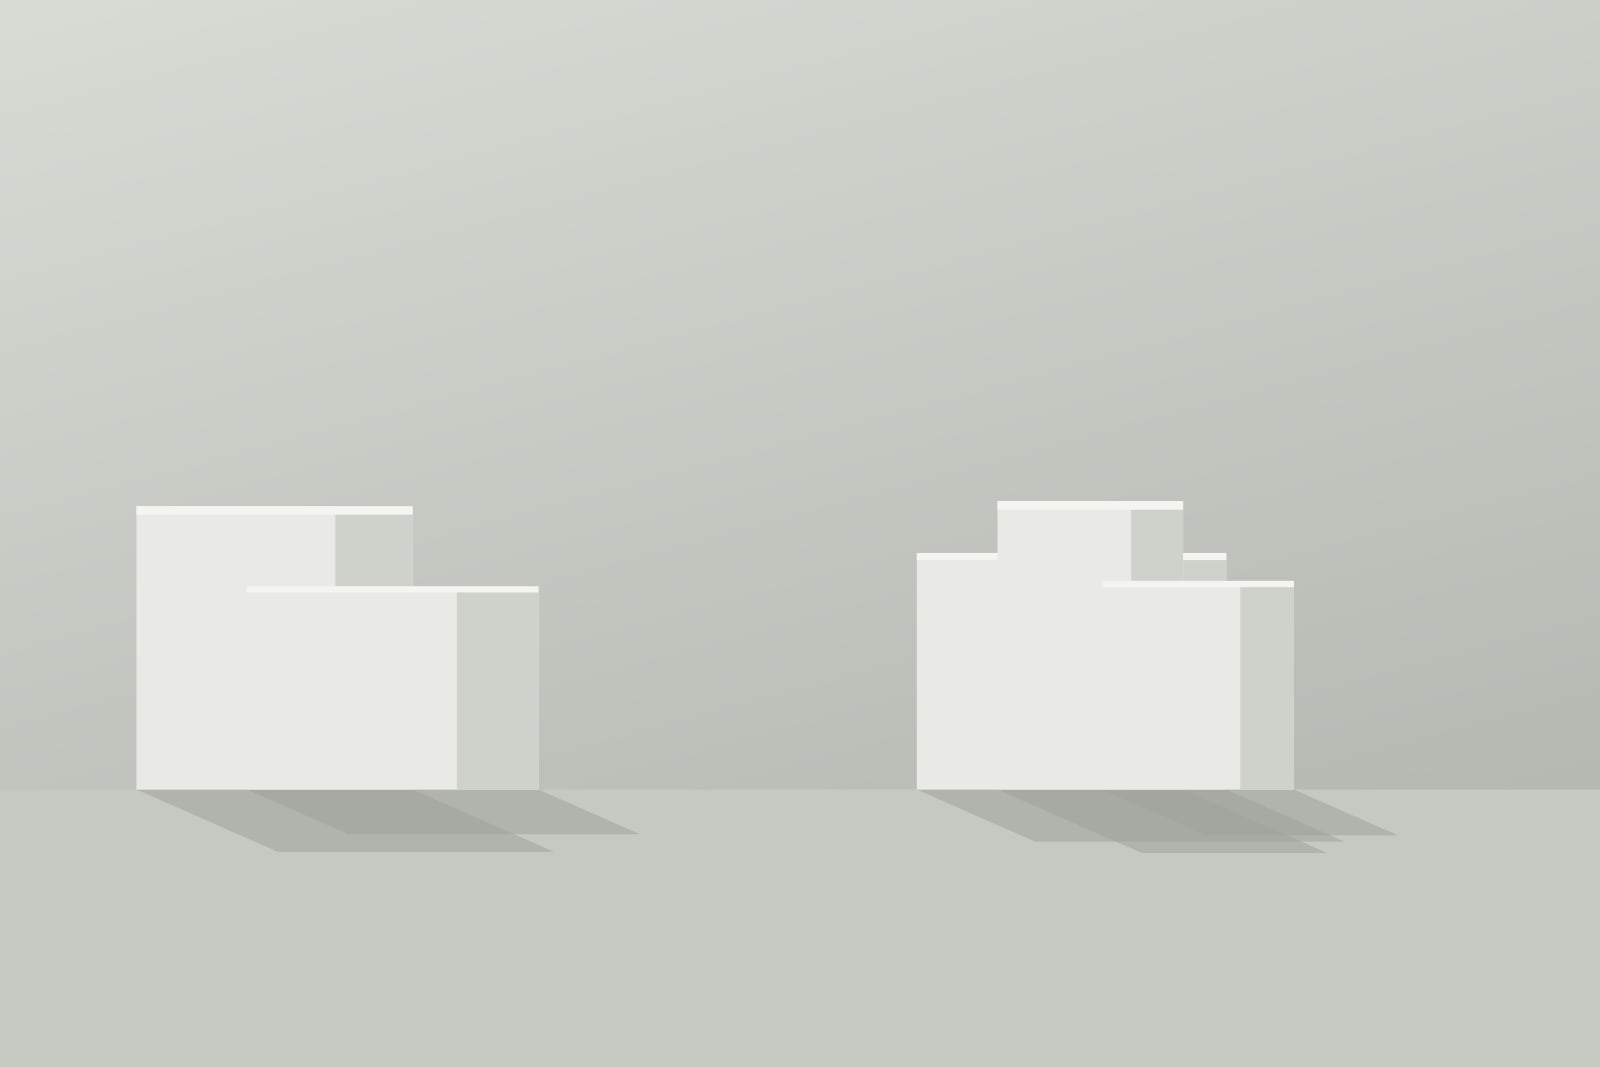
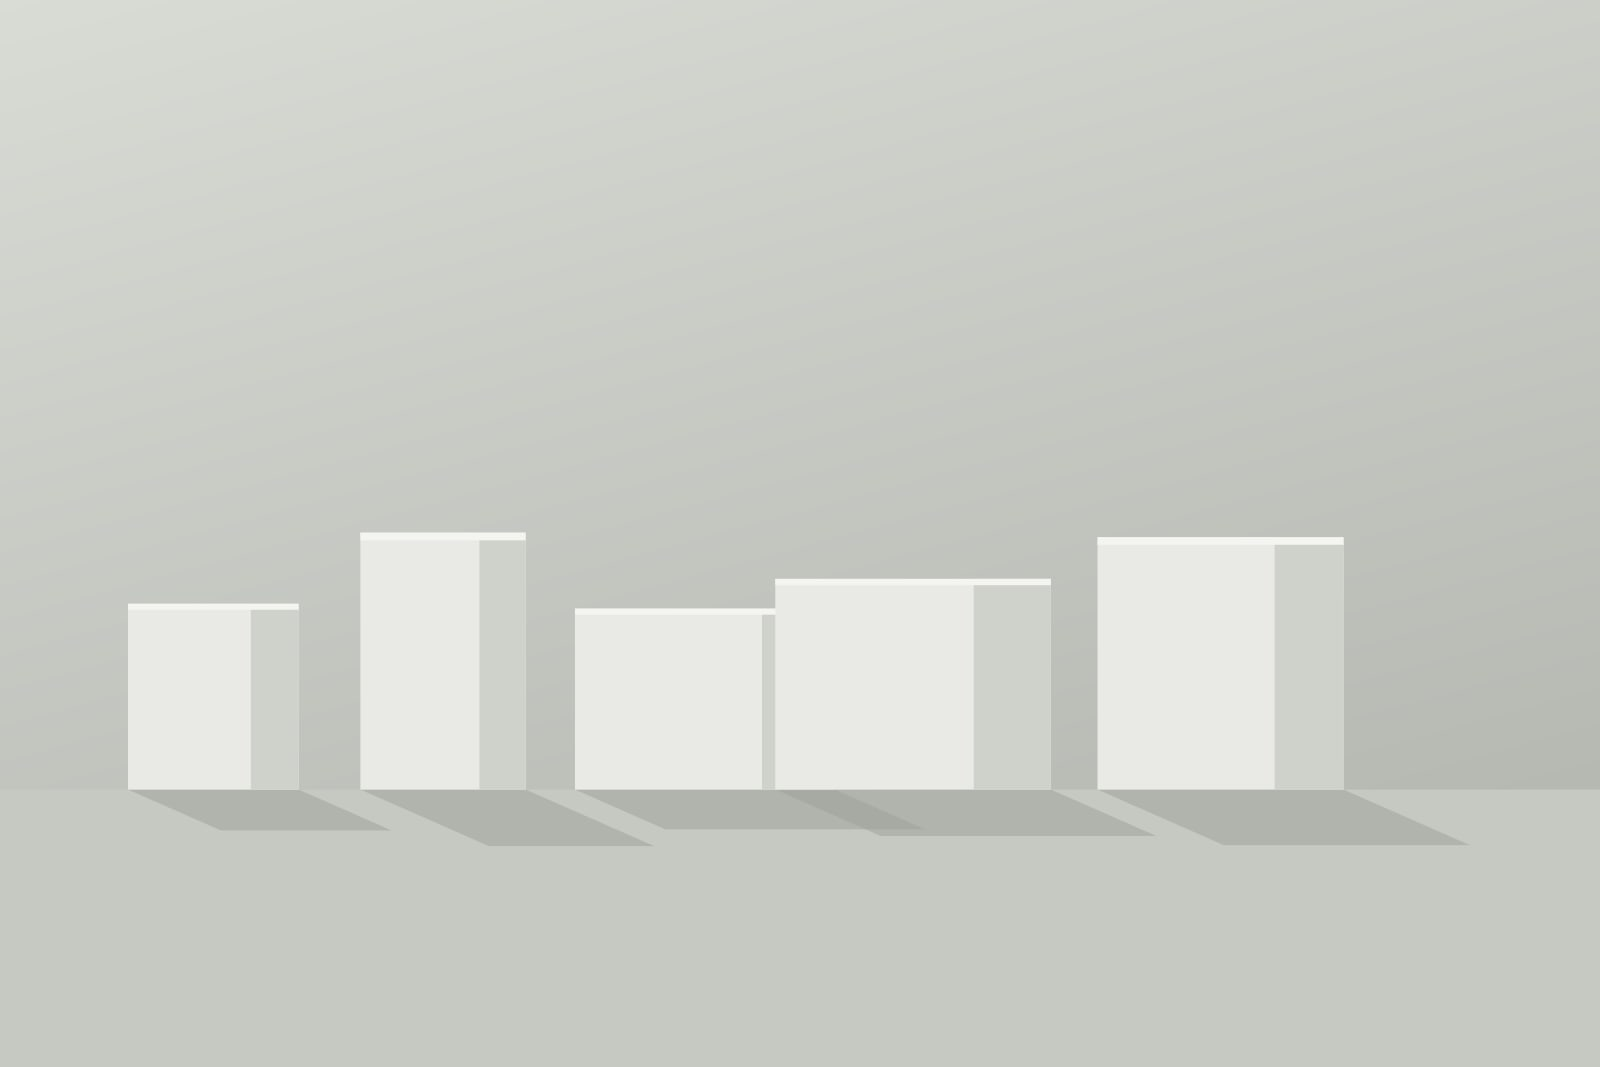
feat: sätt identiteten till Wilma Vallström Bergstrand
Byter platshållarnamnet mot ett riktigt och rättar det som inte längre
stämmer med det: titeln var "Arkitekt SAR/MSA", vilket är en yrkestitel
för färdig arkitekt, och om mig-sidan beskrev nio år på kontor och egen
praktik. Båda är nu skrivna för en masterstudent som började hösten 2026.
Tar också bort den påhittade publiceringen i Arkitektur — en uppdiktad
meritrad blir en annan sak när den står under ett riktigt namn.

Centrerar dessutom modellerna i platshållarbilderna. Varje låda fick
tidigare ett eget slumpat x-läge, så gruppens tyngdpunkt hamnade var som
helst utom i mitten. Nu staplas bitarna i rad och hela gruppen centreras,
med slagskuggan inräknad i massan så att den inte ser vänstertung ut.

Projektinnehållet är fortfarande platshållare och beskriver byggda verk
med yrkesroller — det behöver skrivas om till studioarbeten.

Claude-Session: https://claude.ai/code/session_01FB5JDiRnNhGrykxLiY8his

Changed region(s): [[0.3438, 0.4639, 0.8438, 0.8041], [0.0625, 0.4639, 0.3438, 0.8041]]

diff --git a/src/consts.ts b/src/consts.ts
@@ -2,13 +2,12 @@
 // byta namn, kontaktuppgifter, navigering eller kategorier.
 
 export const ARKITEKT = {
-  // PLATSHÅLLARE — byt till arkitektens riktiga namn.
-  namn: "Ingrid Almqvist",
-  titel: "Arkitekt SAR/MSA",
+  namn: "Wilma Vallström Bergstrand",
+  titel: "Masterstudent i arkitektur",
   ort: "Göteborg",
-  // En rad som sammanfattar praktiken. Syns under namnet på startsidan.
+  // En rad som sammanfattar arbetet. Syns under namnet på startsidan.
   ingress:
-    "Ritar hus som tar hand om dagsljuset de får. Bostad, publika byggnader och stadsrum i västsvensk skala.",
+    "Arkitekturstudent på Chalmers, masterprogrammet sedan hösten 2026. Arbetar med dagsljus, bostad och stadsrum i västsvensk skala.",
   epost: "hej@example.se",
   telefon: "+46 70 000 00 00",
   instagram: "https://instagram.com/example",

diff --git a/README.md b/README.md
@@ -17,8 +17,6 @@ Allt som är personligt ligger i **`src/consts.ts`** — namn, titel, ort, ingre
 e-post, telefon, sociala länkar, navigering och kategorier. Det är den enda fil
 du behöver röra för att göra sajten till någon annans.
 
-Namnet `Ingrid Almqvist` är en platshållare.
-
 Byt även `site` i `astro.config.mjs` till den riktiga domänen innan publicering.
 
 ## Lägga till ett projekt

diff --git a/src/innehall/projekt/att-bygga-mindre.md b/src/innehall/projekt/att-bygga-mindre.md
@@ -43,6 +43,5 @@ uppslag:
       den.
 ---
 
-Publicerad i Arkitektur nr 4, 2025. Texten bygger på erfarenheterna från
-Kajhuset och Strandängen, där samma diskussion fördes två gånger med olika
-utfall.
+Texten bygger på Kajhuset och Strandängen, där samma diskussion fördes två
+gånger med olika utfall.
